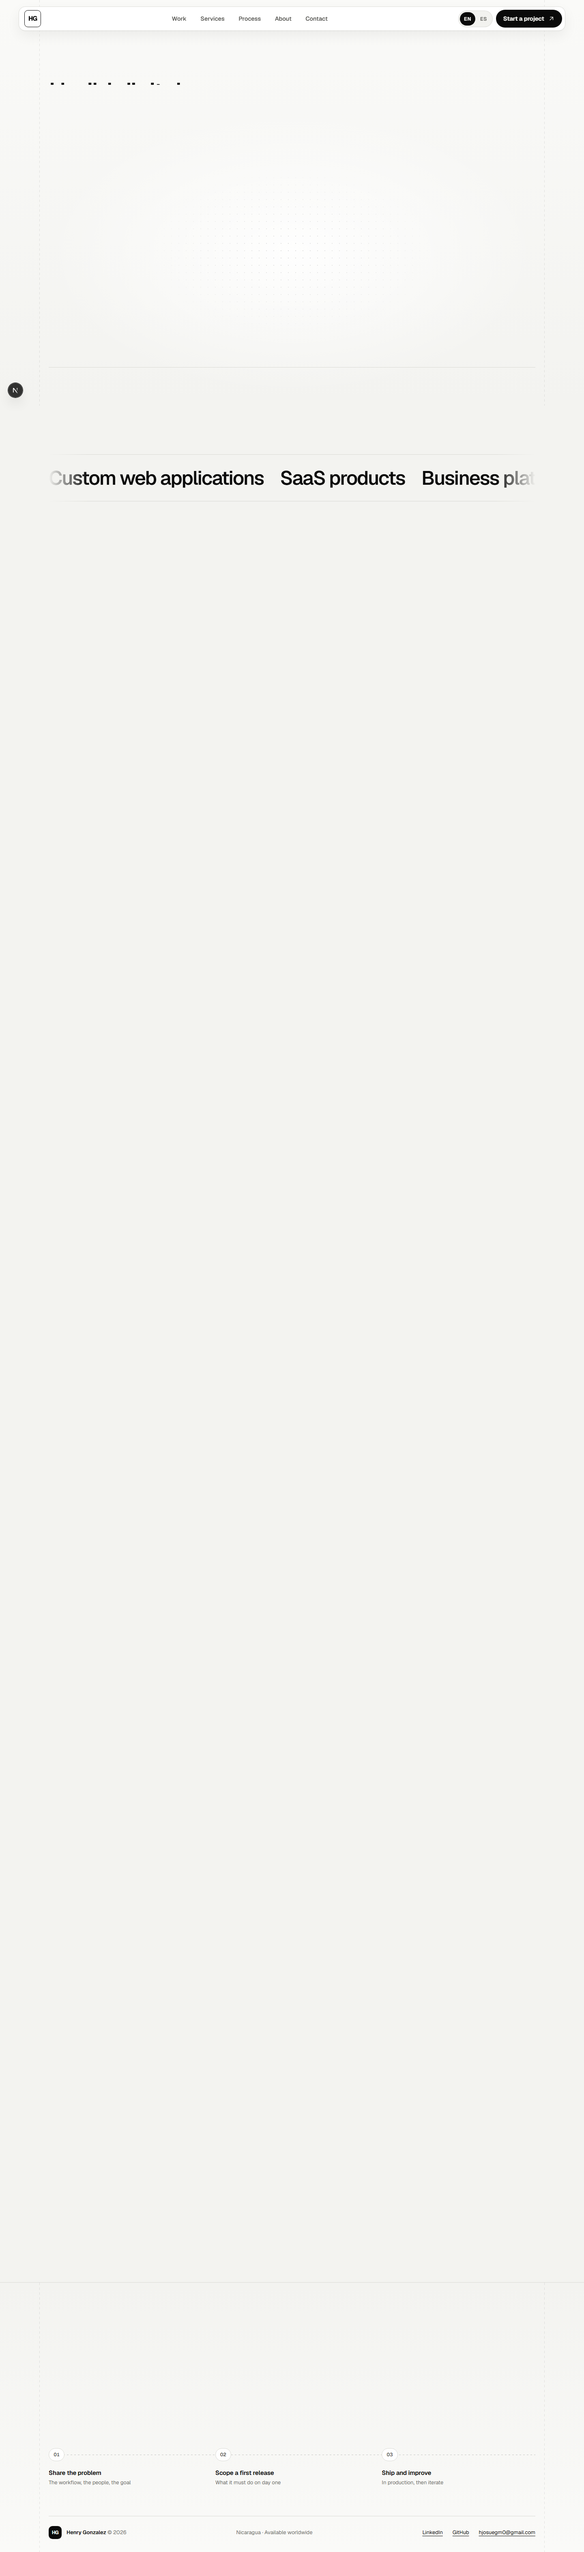
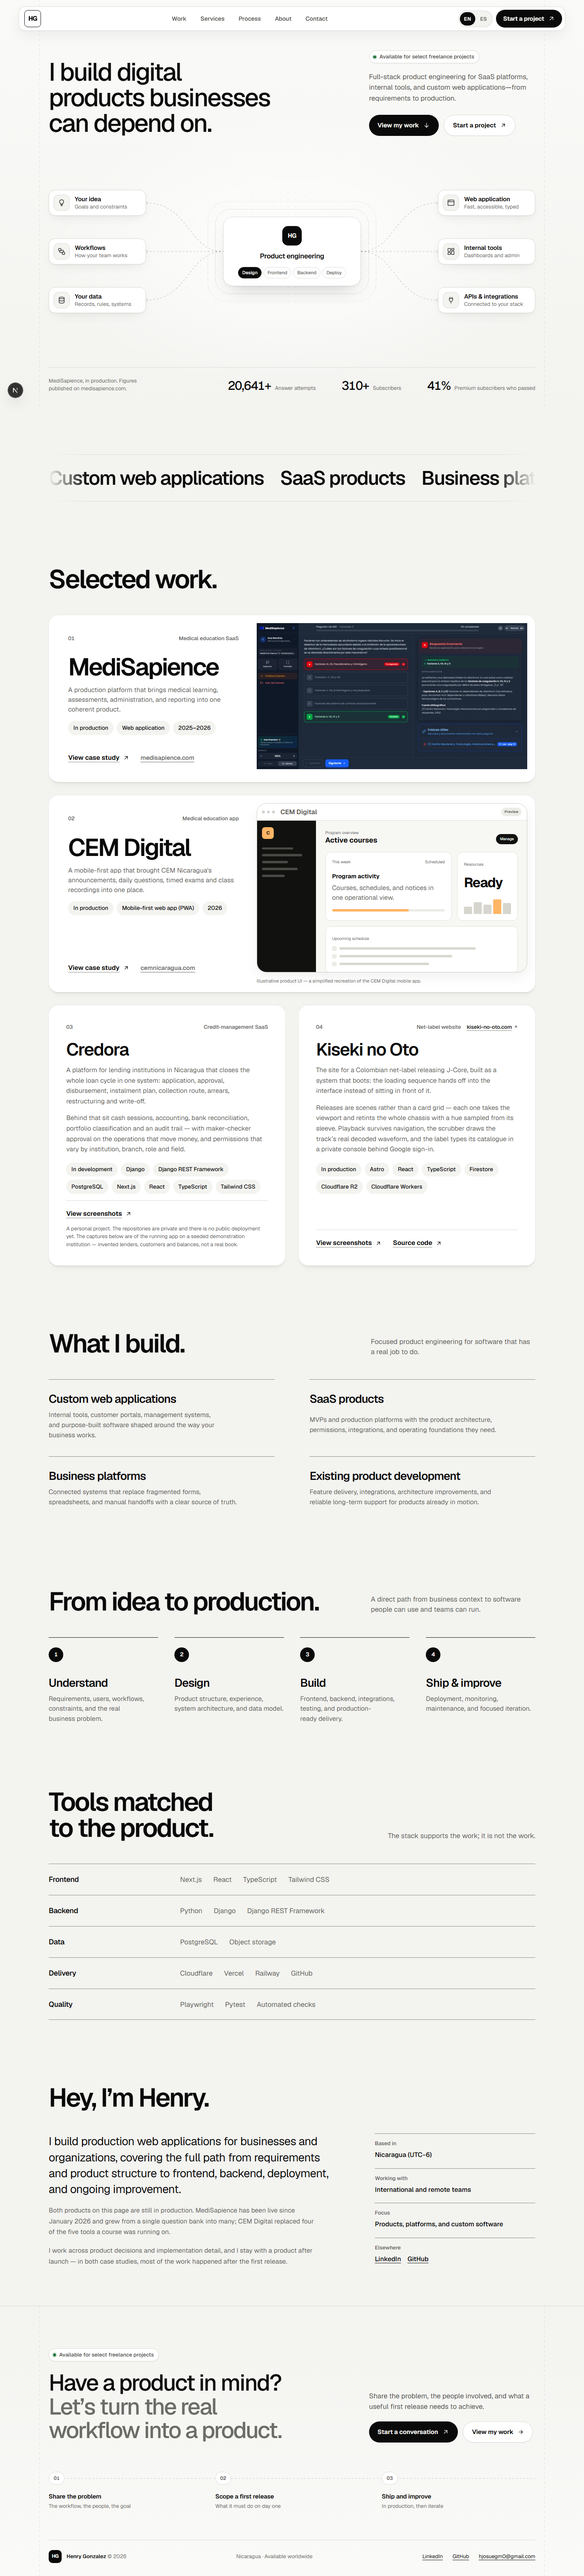
Add the five Credora captures, and make review screenshots trustworthy
The Credora page declared five screenshots and had none, so
`availableScreenshots()` hid every frame and the "View screenshots" action
with them. The captures now exist, taken from the running app with
Playwright at 1440x900 and deviceScaleFactor 2 — exactly the 16:10 frame
at 2x device pixels `public/work/README.md` asks for.

The data underneath is the seeded demonstration institution the backend's
own `scripts/siembra` builds: invented lenders, customers and balances.
Credora's `note` now says so, the way the MediSapience statistics capture
already labels its seeded study history.

Alt text and captions are rewritten to describe what each capture actually
shows. The originals were written before the screens existed and promised
columns that are not there — an alt text describing an imagined screen is
the same fabrication the content rules forbid anywhere else.

`/prestamos` is missing from the set on purpose: that list currently
crashes on a written-off loan, because the frontend's `ESTADOS_PRESTAMO`
map has no `WRITTEN_OFF` and the seeder creates one. The caption wanted a
loan detail rather than the list anyway, so the capture opens the loan
directly.

Review captures also grew two fixes, both found by this work:

- They now wait for images to decode. A long page of captures produced a
  file with correctly sized but entirely blank frames, which reads as a
  layout bug that is not there.
- They now capture under reduced motion. The reveals only run under
[…]

diff --git a/content/portfolio.es.ts b/content/portfolio.es.ts
@@ -235,33 +235,43 @@ const otherProjects: SideProject[] = [
       "Una plataforma para instituciones de crédito en Nicaragua que cierra todo el ciclo del préstamo en un solo sistema: solicitud, aprobación, desembolso, plan de cuotas, ruta de cobro, mora, reestructuración y castigo.",
       "Por detrás están las sesiones de caja, la contabilidad, la conciliación bancaria, la clasificación de cartera y una bitácora de auditoría — con aprobación de cuatro ojos en las operaciones que mueven dinero, y permisos que varían por institución, sucursal, rol y campo.",
     ],
-    note: "Es un proyecto personal. Los repositorios son privados y todavía no hay un despliegue público.",
+    note: "Es un proyecto personal. Los repositorios son privados y todavía no hay un despliegue público. Las capturas de abajo son de la app en funcionamiento sobre una financiera de demostración sembrada — prestatarios, clientes y saldos inventados, no una cartera real.",
     technologies: ["Django", "Django REST Framework", "PostgreSQL", "Next.js", "React", "TypeScript", "Tailwind CSS"],
     screenshots: [
       {
         src: "/work/credora-solicitudes.png",
-        alt: "Bandeja de solicitudes de Credora: solicitudes de préstamo enviadas con su producto, monto, sucursal y estado de revisión.",
-        caption: "Las solicitudes llegan a una sola bandeja y llevan su producto, requisitos y garantías por toda la revisión.",
+        alt:
+          "La bandeja de Credora: la cartera desglosada por estado de la solicitud —borrador, enviada, en revisión, aprobada, devuelta, desembolsada, rechazada y cancelada—, con el monto que espera una decisión al lado y las últimas solicitudes abajo.",
+        caption:
+          "Cada solicitud cae en una sola bandeja, contada por el estado en el que realmente está.",
       },
       {
         src: "/work/credora-prestamos.png",
-        alt: "Detalle de un préstamo en Credora, con el monto desembolsado y el plan de cuotas generado.",
-        caption: "La aprobación y el desembolso generan el plan de cuotas sobre el que corre todo el ciclo de cobro.",
+        alt:
+          "Un préstamo desembolsado de Credora: plazo, tasa mensual, cómo y cuándo se entregó, quién lo entregó y contra qué solicitud, y luego el plan de pagos completo con interés, capital y total de cada una de las diez cuotas.",
+        caption:
+          "El desembolso genera el plan de pagos sobre el que corre después todo el ciclo de cobro.",
       },
       {
         src: "/work/credora-cobranza.png",
-        alt: "Ruta de cobro de un día en Credora: clientes por visitar, cuotas por vencer y mora.",
-        caption: "La ruta de cobro se arma con lo que realmente está por vencer, por zona y por oficial.",
+        alt:
+          "La cartera vencida de Credora: tres préstamos con sus días de mora, la zona, la fecha de la próxima cuota y el monto adeudado con la mora incluida.",
+        caption:
+          "La ruta de cobro se arma con lo que de verdad está vencido, por zona y por días de mora.",
       },
       {
         src: "/work/credora-caja.png",
-        alt: "Una sesión de caja de Credora con sus movimientos y el saldo de cierre.",
-        caption: "Los pagos caen en una sesión de caja abierta que hay que cuadrar antes de cerrarla.",
+        alt:
+          "Una sesión de caja abierta en Credora: apertura, cobros en efectivo, desembolsos en efectivo, devoluciones y egresos que suman lo que debería haber en la caja, los movimientos de esa sesión, y las cajas cerradas con su diferencia contada.",
+        caption:
+          "El efectivo cae en una sesión abierta que tiene que cuadrar antes de poder cerrarse.",
       },
       {
         src: "/work/credora-cartera.png",
-        alt: "Clasificación de cartera de Credora por rango de mora en un cierre de periodo.",
-        caption: "El cierre de periodo clasifica la cartera en rangos de mora para provisión y reportes.",
+        alt:
+          "El cierre de periodo de Credora: cartera, mora, cartera en riesgo y provisión requerida, y luego los préstamos y saldos clasificados en las categorías A, B y D con la provisión que carga cada una.",
+        caption:
+          "Cerrar una fecha clasifica cada préstamo y fija la provisión sobre la que se arman los reportes.",
       },
     ],
   },

diff --git a/content/portfolio.en.ts b/content/portfolio.en.ts
@@ -228,33 +228,43 @@ const otherProjects: SideProject[] = [
       "A platform for lending institutions in Nicaragua that closes the whole loan cycle in one system: application, approval, disbursement, instalment plan, collection route, arrears, restructuring and write-off.",
       "Behind that sit cash sessions, accounting, bank reconciliation, portfolio classification and an audit trail — with maker-checker approval on the operations that move money, and permissions that vary by institution, branch, role and field.",
     ],
-    note: "A personal project. The repositories are private and there is no public deployment yet.",
+    note: "A personal project. The repositories are private and there is no public deployment yet. The captures below are of the running app on a seeded demonstration institution — invented lenders, customers and balances, not a real book.",
     technologies: ["Django", "Django REST Framework", "PostgreSQL", "Next.js", "React", "TypeScript", "Tailwind CSS"],
     screenshots: [
       {
         src: "/work/credora-solicitudes.png",
-        alt: "Credora's application inbox: submitted loan applications with their product, amount, branch and review state.",
-        caption: "Applications arrive in one inbox and carry their product, requirements and guarantees through review.",
+        alt:
+          "Credora's inbox: the portfolio broken down by application state — draft, sent, under review, approved, returned, disbursed, rejected and cancelled — with the amount awaiting a decision beside it and the latest applications below.",
+        caption:
+          "Every application lands in one inbox, counted by the state it is actually in.",
       },
       {
         src: "/work/credora-prestamos.png",
-        alt: "A Credora loan detail showing the disbursed amount and the generated instalment plan.",
-        caption: "Approval and disbursement generate the instalment plan the whole collection cycle runs on.",
+        alt:
+          "A disbursed Credora loan: term, monthly rate, how and when it was handed over, who handed it over and against which application, then the full instalment plan with interest, capital and total for each of the ten instalments.",
+        caption:
+          "Disbursement generates the instalment plan the whole collection cycle then runs on.",
       },
       {
         src: "/work/credora-cobranza.png",
-        alt: "Credora's collection route for a day: customers to visit, instalments due and arrears.",
-        caption: "The collection route is built from what is actually due, by zone and by officer.",
+        alt:
+          "Credora's overdue portfolio: three loans with their days past due, zone, next instalment date and the amount owed including arrears.",
+        caption:
+          "The collection route is built from what is actually overdue, by zone and by days late.",
       },
       {
         src: "/work/credora-caja.png",
-        alt: "A Credora cash session with its movements and closing balance.",
-        caption: "Payments land in an open cash session that has to be reconciled before it closes.",
+        alt:
+          "An open Credora cash session: opening float, cash collections, cash disbursements, returns and expenses adding up to what the drawer should hold, the movements of that session, and closed sessions with their counted difference.",
+        caption:
+          "Cash lands in an open session that has to add up before it can be closed.",
       },
       {
         src: "/work/credora-cartera.png",
-        alt: "Credora's portfolio classification by arrears bucket at a period close.",
-        caption: "Period close classifies the portfolio into arrears buckets for provisioning and reporting.",
+        alt:
+          "Credora's period close: portfolio, arrears, portfolio at risk and required provision, then the loans and balances classified into categories A, B and D with the provision each one carries.",
+        caption:
+          "Closing a date classifies every loan and fixes the provision the reports are built on.",
       },
     ],
   },

diff --git a/tests/e2e/portfolio.spec.ts b/tests/e2e/portfolio.spec.ts
@@ -315,11 +315,48 @@ test("essential content reflows at 200 and 400 percent equivalents", async ({ pa
   }
 });
 
+/**
+ * A full-page screenshot fires whether or not the page has finished drawing, and
+ * `next/image` only fetches what has been near the viewport. On a long page of captures
+ * that produced a review file showing correctly-sized but entirely blank frames — worse
+ * than no screenshot, because it looks like a layout bug that is not there. Walk the page
+ * so every image is requested, then wait for them to actually decode.
+ */
+async function settleImages(page: import("@playwright/test").Page) {
+  await page.evaluate(async () => {
+    const step = window.innerHeight;
+    for (let y = 0; y < document.body.scrollHeight; y += step) {
+      window.scrollTo(0, y);
+      await new Promise((resolve) => setTimeout(resolve, 100));
+    }
+    window.scrollTo(0, 0);
+  });
+  await page
+    .waitForFunction(
+      () => [...document.querySelectorAll("img")].every((img) => img.complete && img.naturalWidth > 0),
+      undefined,
+      { timeout: 30_000 },
+    )
+    .catch(() => {});
+  // One more frame so the reveal transitions have settled where motion is allowed.
+  await page.waitForTimeout(400);
+}
+
 test("capture final review surfaces", async ({ page }, testInfo) => {
-  test.setTimeout(120_000);
+  // Twenty full-page captures, each waiting for its images to decode first.
+  test.setTimeout(420_000);
   test.skip(testInfo.project.name !== "desktop-chromium", "Capture once with explicit viewports");
   const reviewDirectory = path.join(process.cwd(), ".impeccable", "review");
   await mkdir(reviewDirectory, { recursive: true });
+
+  /*
+   * Capture the resting state. The reveals only run under
+   * `(prefers-reduced-motion: no-preference)`, so asking for reduced motion leaves every
+   * block at full opacity. Without it, walking the page to load its images and then
+   * scrolling back up reverses the ScrollTriggers, and the review file shows correctly
+   * sized but empty frames.
+   */
+  await page.emulateMedia({ reducedMotion: "reduce" });
 
   for (const viewport of [
     { name: "desktop", width: 1440, height: 1000 },
@@ -328,6 +365,7 @@ test("capture final review surfaces", async ({ page }, testInfo) => {
     await page.setViewportSize({ width: viewport.width, height: viewport.height });
     for (const route of allRoutes) {
       await page.goto(route.url);
+      await settleImages(page);
       // English keeps the existing filenames so the review set stays comparable;
       // Spanish is captured alongside it with a suffix.
       const base = route.path === "/" ? viewport.name : `${route.path.split("/").at(-1)}-${viewport.name}`;

diff --git a/tests/home.test.tsx b/tests/home.test.tsx
@@ -91,10 +91,12 @@ describe("Home page", () => {
     expect(within(work).getAllByRole("link", { name: /source code/i })).toHaveLength(1);
 
     // "View screenshots" is gated on captures existing in public/work, so it can never
-    // open an empty page. Kiseki no Oto has them; Credora's are still pending.
+    // open an empty page. Both described projects have them now.
     const screenshotLinks = within(work).getAllByRole("link", { name: /view screenshots/i });
-    expect(screenshotLinks).toHaveLength(1);
-    expect(screenshotLinks[0]).toHaveAttribute("href", "/en/work/kiseki-no-oto");
+    expect(screenshotLinks.map((link) => link.getAttribute("href"))).toEqual([
+      "/en/work/credora",
+      "/en/work/kiseki-no-oto",
+    ]);
   });
 
   it("introduces Henry without an image slot to fill", async () => {
@@ -155,9 +157,8 @@ describe("Home page in Spanish", () => {
     for (const link of within(work).getAllByRole("link", { name: /ver el caso de estudio/i })) {
       expect(link.getAttribute("href")).toMatch(/^\/es\/work\//);
     }
-    expect(within(work).getByRole("link", { name: /ver capturas/i })).toHaveAttribute(
-      "href",
-      "/es/work/kiseki-no-oto",
-    );
+    expect(
+      within(work).getAllByRole("link", { name: /ver capturas/i }).map((l) => l.getAttribute("href")),
+    ).toEqual(["/es/work/credora", "/es/work/kiseki-no-oto"]);
   });
 });
